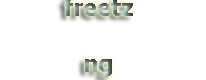
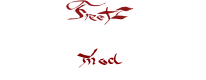
tagging: update prisrak, by prisrak  - refs https://github.com/Freetz-NG/freetz-ng/issues/55

Changed region(s): [[0.2621, 0.0, 0.6699, 0.325], [0.3786, 0.6, 0.6117, 1.0]]

diff --git a/docs/themes/tagging.md b/docs/themes/tagging.md
@@ -13,6 +13,6 @@
    [![Tagging Pimped](../screenshots/000-TAG_pimped.png)](../screenshots/000-TAG_pimped.png)
    
  * **Prisrak**<br>
-   Im Webinterface wird über AVM's "Fritz" Logo der Schriftzug "freetz ng" gelegt.<br><br>
+   Im Webinterface wird über AVM's "Fritz" Logo der Schriftzug "Freetz mod" gelegt.<br><br>
    [![Tagging Prisrak](../screenshots/000-TAG_prisrak.png)](../screenshots/000-TAG_prisrak.png)
 
